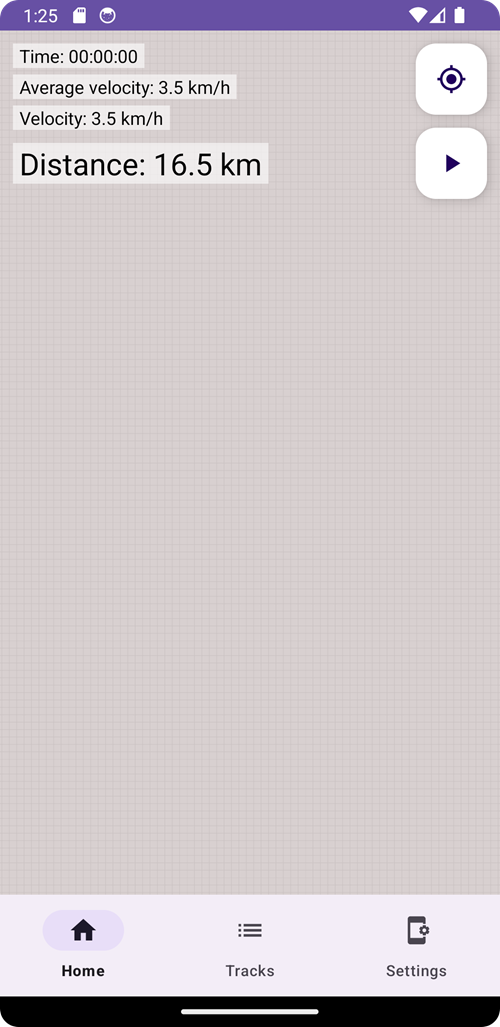
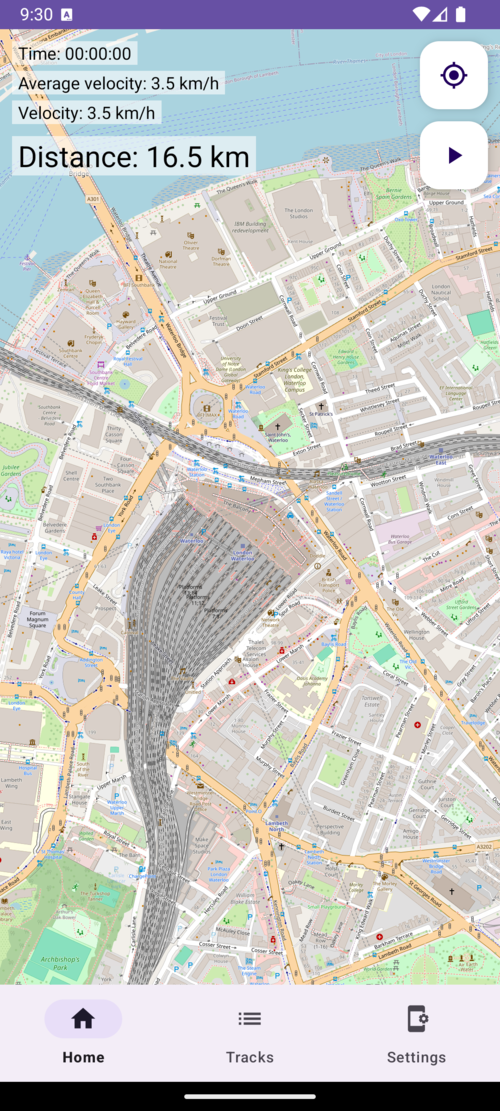
Check location gps enabled

diff --git a/app/src/main/java/com/example/gpstracker/fragments/MainFragment.kt b/app/src/main/java/com/example/gpstracker/fragments/MainFragment.kt
@@ -2,6 +2,7 @@ package com.example.gpstracker.fragments
 
 import android.Manifest
 import android.content.Context
+import android.location.LocationManager
 import android.os.Build
 import android.os.Bundle
 import android.util.Log
@@ -40,15 +41,16 @@ class MainFragment : Fragment() {
         checkLocPermission() // Используем Launcher после регистрации иначе он выдаст null
 //        activity?.startService(Intent(activity, LocationService::class.java))
     }
-//
-//    override fun onResume() {
-//        super.onResume()
-//        checkLocPermission()
-//    }
-//
-//    override fun onPause() {
-//        super.onPause()
-//    }
+
+
+    override fun onResume() {
+        super.onResume()
+        checkLocPermission()
+    }
+
+    override fun onPause() {
+        super.onPause()
+    }
 
     // Базовые настройки карты OSM
     private fun settingsOsm() {
@@ -91,13 +93,50 @@ class MainFragment : Fragment() {
             }
             // Результат запроса передается в виде словаря Map
             // if не может работать с null поэтому true
-            if (resultPerm[Manifest.permission.ACCESS_FINE_LOCATION] == true) {
-                initOsm()
+            handlePermissionResult(resultPerm)
+//            if (resultPerm[Manifest.permission.ACCESS_FINE_LOCATION] == true) {
+//                initOsm()
 //                checkLocationEnabled()
-            } else {
-                showToast("Вы не дали разрешение на использование местоположения!")
-            }
+//            } else {
+//                showToast("Вы не дали разрешение на использование местоположения!")
+//            }
         }
+    }
+
+    // Обрабатываем результат разрешения
+    private fun handlePermissionResult(resultPerm: Map<String, Boolean>) {
+        // Проверяем разрешение FINE_LOCATION
+        if (resultPerm[Manifest.permission.ACCESS_FINE_LOCATION] == true) {
+            if (Build.VERSION.SDK_INT >= Build.VERSION_CODES.Q) {
+                // Если Android >= 10, запрашиваем BACKGROUND_LOCATION
+                if (!checkPermission(Manifest.permission.ACCESS_BACKGROUND_LOCATION)) {
+                    requestBackgroundLocationPermission()
+                } else {
+                    initOsm() // Инициализация карты, если оба разрешения уже есть
+                    checkLocationEnabled() // Проверяем включен-ли GPS на устройстве
+                }
+            } else {
+                initOsm() // Если Android < 10, достаточно только FINE_LOCATION
+                checkLocationEnabled() // Проверяем включен-ли GPS на устройстве
+            }
+        } else {
+            showToast("Вы не дали разрешение на использование местоположения!")
+        }
+    }
+
+    // Запрос FINE_LOCATION
+    private fun requestFineLocationPermission() {
+        pLauncher.launch(
+            arrayOf(Manifest.permission.ACCESS_FINE_LOCATION)
+        )
+    }
+
+    // Запрос BACKGROUND_LOCATION
+    @RequiresApi(Build.VERSION_CODES.Q)
+    private fun requestBackgroundLocationPermission() {
+        pLauncher.launch(
+            arrayOf(Manifest.permission.ACCESS_BACKGROUND_LOCATION)
+        )
     }
 
     // Проверка версии Android, запуск соответствующей функции проверки разрешений (ниже и выше 10 версии)
@@ -112,37 +151,32 @@ class MainFragment : Fragment() {
     // Проверка разрешений для версии Android >= 10, если нет запуск диалога Android разрешение на GPS
     @RequiresApi(Build.VERSION_CODES.Q) // Аннотация сообщает Котлину, функция только для версии Android >= 10
     private fun checkPermissionAfter10() {
-        if (checkPermission(Manifest.permission.ACCESS_FINE_LOCATION)
-            && checkPermission(Manifest.permission.ACCESS_BACKGROUND_LOCATION)
-        ) {
-            initOsm()
-//            checkLocationEnabled()
+        if (checkPermission(Manifest.permission.ACCESS_FINE_LOCATION)) {
+            if (checkPermission(Manifest.permission.ACCESS_BACKGROUND_LOCATION)) {
+                initOsm() // Если оба разрешения уже есть
+                checkLocationEnabled() // Проверяем включен-ли GPS на устройстве
+            } else {
+                requestBackgroundLocationPermission() // Запрашиваем только BACKGROUND_LOCATION
+            }
         } else {
-            pLauncher.launch( // Запуск диалога Android, разрешение на gps
-                arrayOf(
-                    Manifest.permission.ACCESS_FINE_LOCATION,
-                    // Выше API 30 нельзя запросить (background) одновременно с разрешением на точное местоположение (fine)
-//                    Manifest.permission.ACCESS_BACKGROUND_LOCATION
-
-                )
-            )
+            requestFineLocationPermission() // Сначала запрашиваем FINE_LOCATION
         }
     }
 
+    // Проверка разрешений для Android < 10
     private fun checkPermissionBefore10() {
-        if (checkPermission(Manifest.permission.ACCESS_FINE_LOCATION)
-        ) {
+        if (checkPermission(Manifest.permission.ACCESS_FINE_LOCATION)) {
             initOsm()
-//            checkLocationEnabled()
+            checkLocationEnabled() // Проверяем включен-ли GPS на устройстве
         } else {
             pLauncher.launch(arrayOf(Manifest.permission.ACCESS_FINE_LOCATION))
         }
     }
 
-//    private fun checkLocationEnabled() {
-//        val LManager = activity?.getSystemService(Context.LOCATION_SERVICE) as LocationManager
-//        val isEnable = LManager.isProviderEnabled(LocationManager.GPS_PROVIDER)
-//        if (!isEnable) {
+    private fun checkLocationEnabled() {
+        val lManager = activity?.getSystemService(Context.LOCATION_SERVICE) as LocationManager
+        val isEnable = lManager.isProviderEnabled(LocationManager.GPS_PROVIDER)
+        if (!isEnable) {
 //            DialogManager.showLocEnableDialog(
 //                activity as AppCompatActivity,
 //                object : DialogManager.Listener {
@@ -151,10 +185,11 @@ class MainFragment : Fragment() {
 //                    }
 //                }
 //            )
-//        } else {
-//            showToast("GPS включен")
-//        }
-//    }
+            showToast("GPS Off - Выключен")
+        } else {
+            showToast("GPS On - Включен")
+        }
+    }
 
     companion object {
         @JvmStatic
